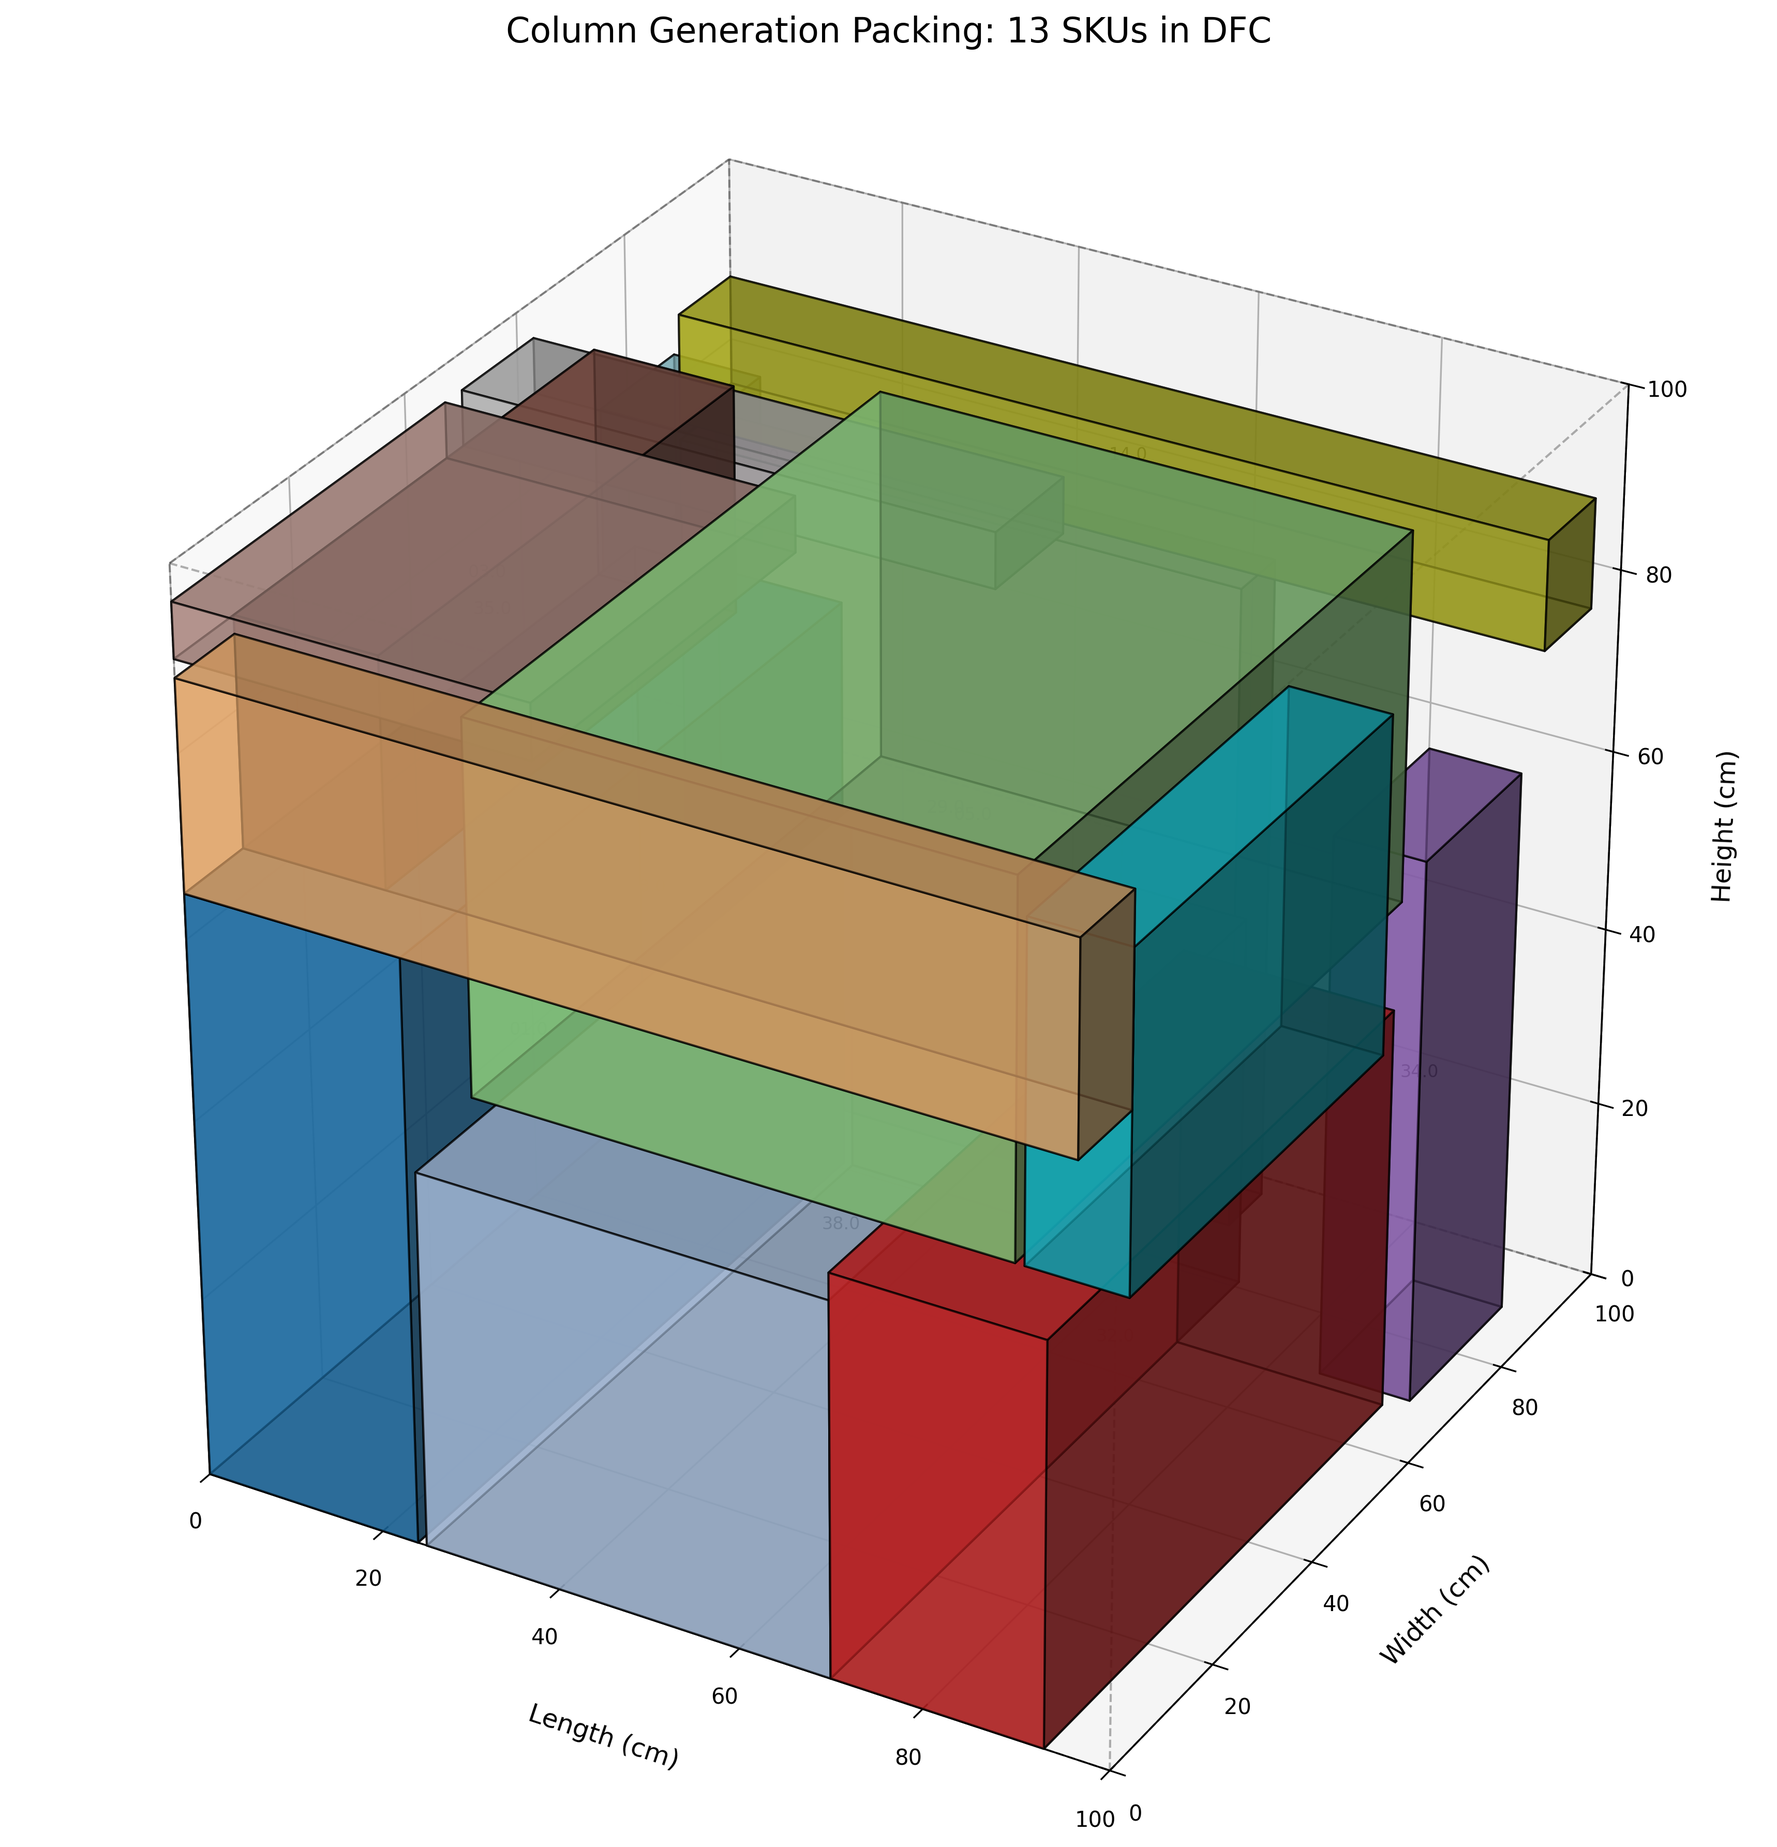
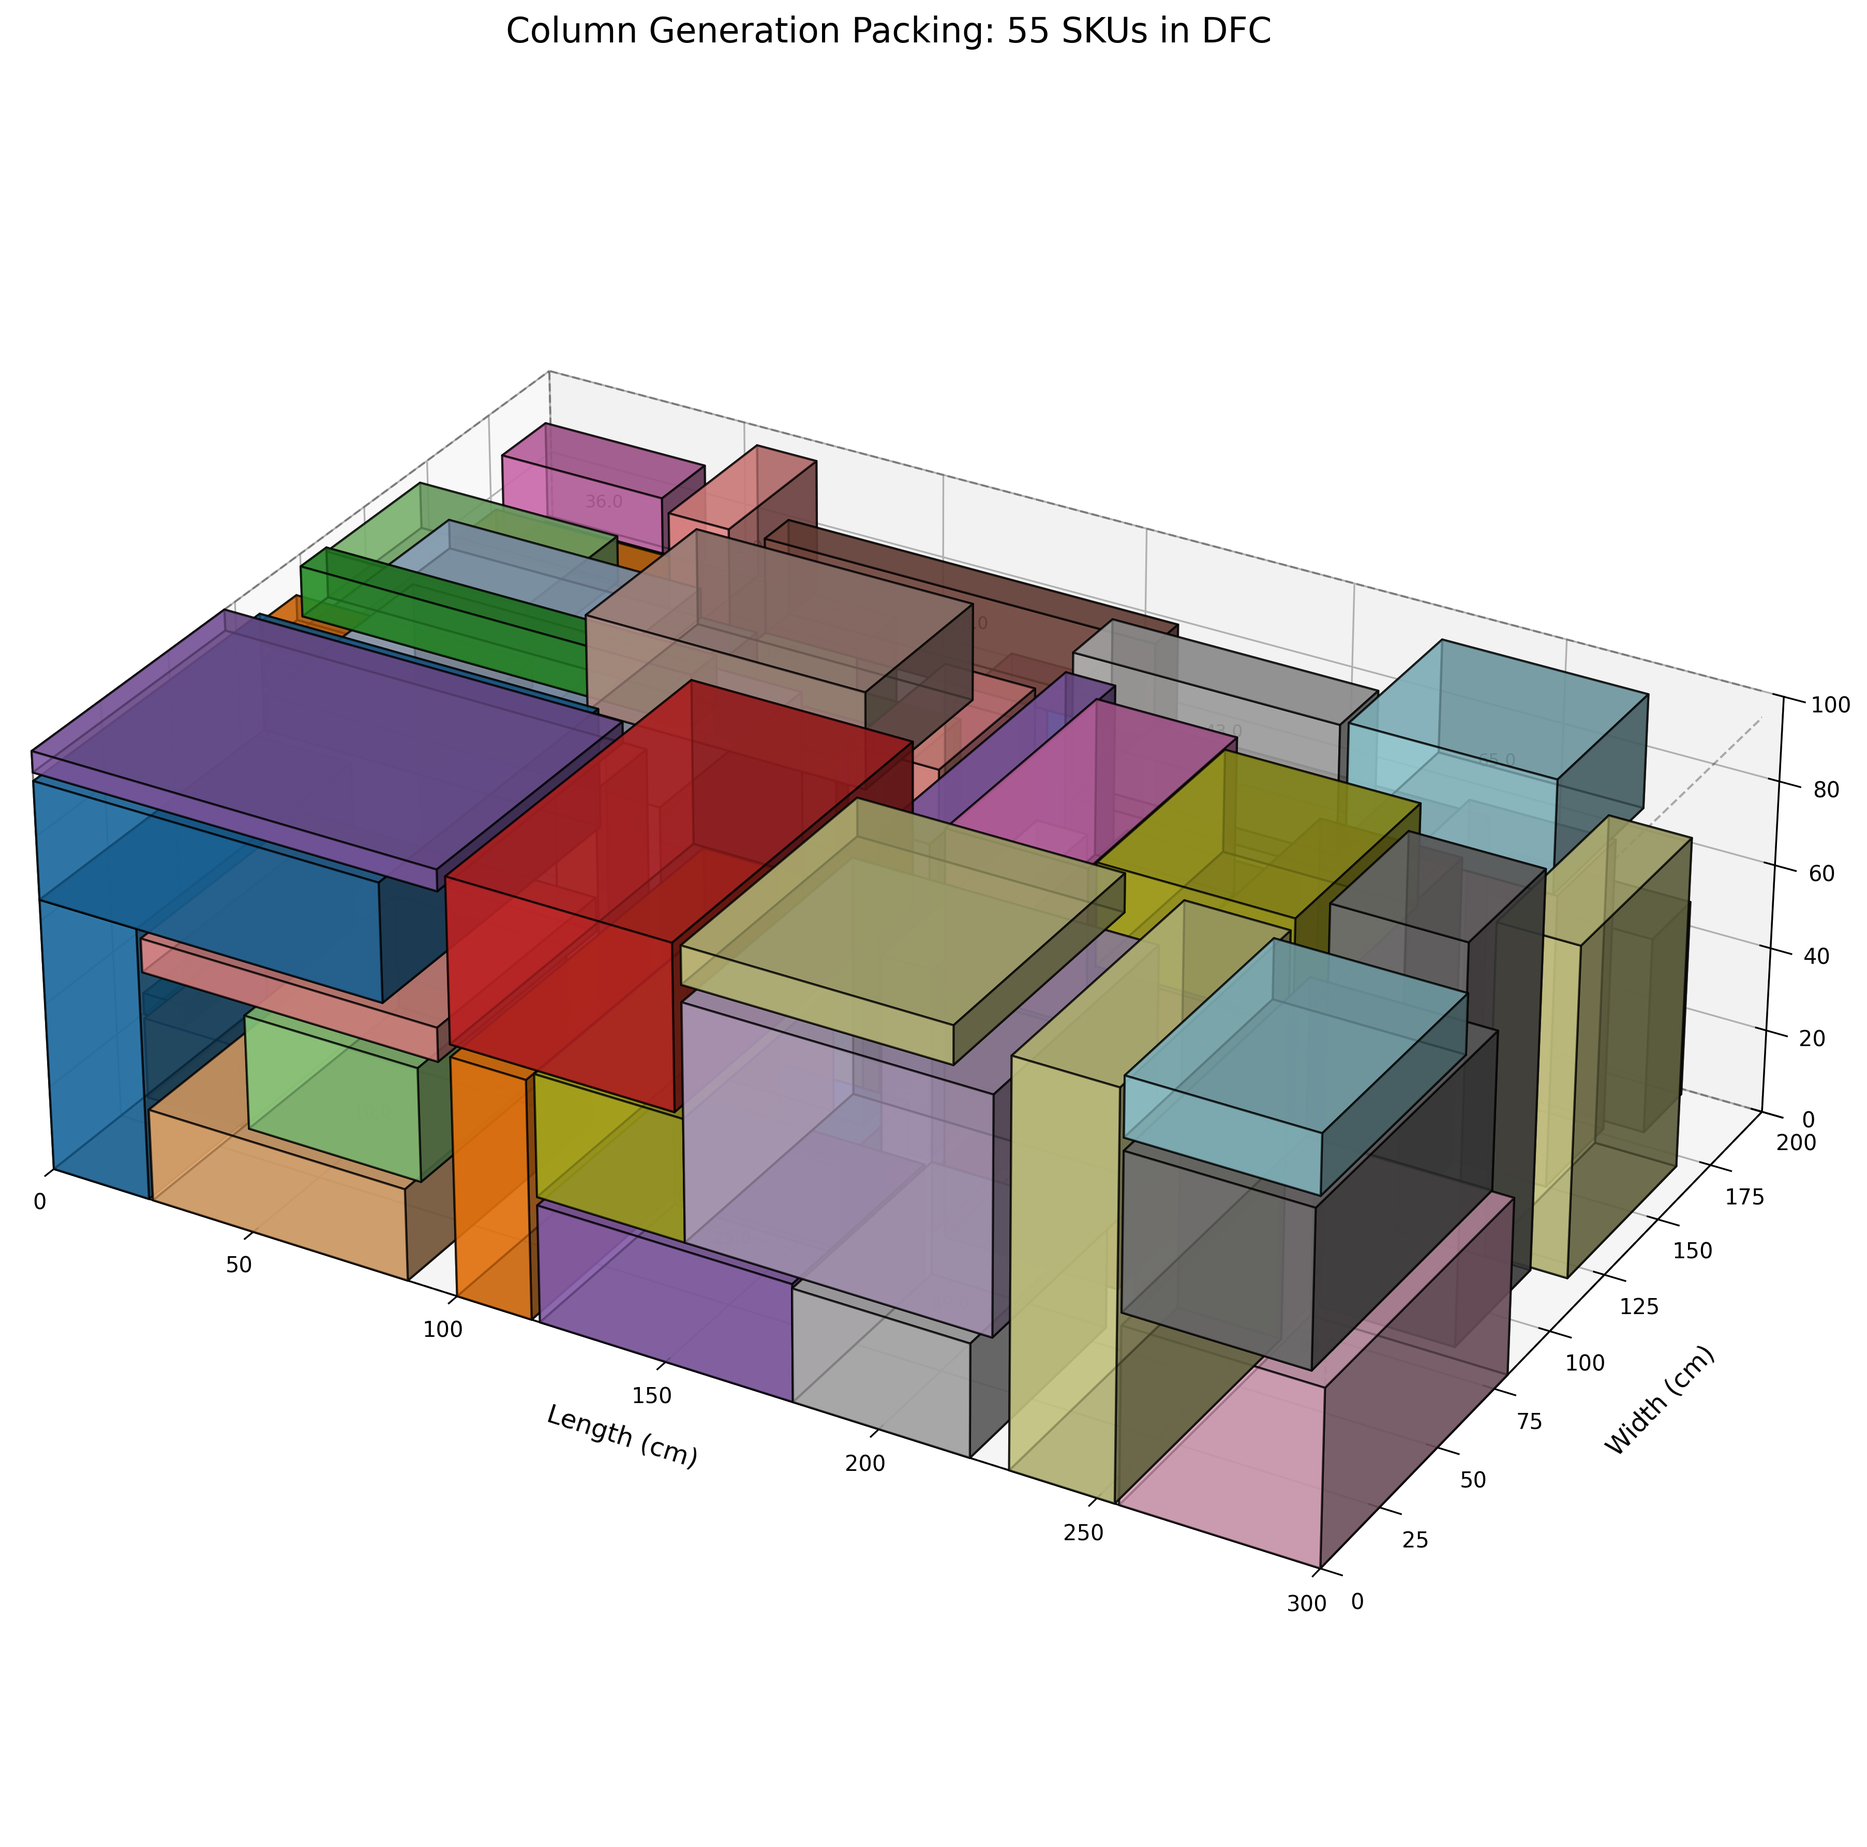
New Changes

diff --git a/RMP.py b/RMP.py
@@ -6,20 +6,23 @@ import os
 import time
 from docplex.mp.model import Model
 
-# DFC dimensions (200x200x200 cm)
-DFC_DIMS = (100, 100, 100)
+# DFC dimensions (100x100x100 cm)
+DFC_DIMS = (300, 200, 100)
 
 class ColumnGenerationPacker:
     def __init__(self, bin_dims):
         self.bin_dims = bin_dims
         self.patterns = []
-        self.sku_data = None
+        self.s极_data = None
         self.dual_values = None
+        self.stability_center = None
+        self.trust_region = 0.5
+        self.convergence_count = 0
         self.rmp_model = None
         self.bin_constraint = None
         self.bin_dual = 0.0
 
-    def load_skus(self, file_path, n_skus=50):
+    def load_skus(self, file_path, n_skus=70):
         """Load SKU data with robust path resolution"""
         paths_to_try = [
             file_path,
@@ -74,6 +77,18 @@ class ColumnGenerationPacker:
             self.rmp_model.sum(self.lambda_vars) <= 1,
             "single_bin"
         )
+        
+        # Dual stabilization constraints
+        if self.stability_center is not None:
+            for idx, dual_val in enumerate(self.stability_center):
+                self.rmp_model.add_constraint(
+                    self.demand_constraints[idx].dual_value >= dual_val - self.trust_region,
+                    f'stab_lb_{idx}'
+                )
+                self.rmp_model.add_constraint(
+                    self.demand_constraints[idx].dual_value <= dual_val + self.trust_region,
+                    f'stab_ub_{idx}'
+                )
 
     def solve_rmp(self):
         if not self.rmp_model:
@@ -81,21 +96,50 @@ class ColumnGenerationPacker:
         solution = self.rmp_model.solve()
         if not solution:
             raise RuntimeError("RMP failed to solve")
-        self.dual_values = [ct.dual_value for ct in self.demand_constraints]
+        
+        new_duals = [ct.dual_value for ct in self.demand_constraints]
+        
+        # Update stability center
+        if self.stability_center is None:
+            self.stability_center = new_duals
+        else:
+            alpha = 0.7  # Smoothing factor
+            self.stability_center = [
+                alpha * new + (1 - alpha) * old
+                for new, old in zip(new_duals, self.stability_center)
+            ]
+        
+        # Adjust trust region
+        if self.convergence_count > 3:
+            self.trust_region *= 0.8
+            self.convergence_count = 0
+            
+        self.dual_values = new_duals
         self.bin_dual = self.bin_constraint.dual_value
         return solution.get_objective_value()
 
-    def solve_psp(self):
-        """Pricing Subproblem with corrected attractiveness"""
-        if self.dual_values is None or len(self.dual_values) != len(self.sku_data):
-            print("Using fallback attractiveness (all 1s)")
-            attractiveness = np.ones(len(self.sku_data))
-        else:
-            attractiveness = 1 - np.array(self.dual_values) - self.bin_dual
-        
-        sorted_skus = self.sku_data.copy()
-        sorted_skus['Attractiveness'] = attractiveness
-        sorted_skus = sorted_skus.sort_values('Attractiveness', ascending=False)
+    def solve_psp(self, num_patterns=3):
+        """Generate multiple patterns per iteration with local search"""
+        patterns = []
+        for _ in range(num_patterns):
+            if self.stability_center is not None:
+                attractiveness = 1 - np.array(self.stability_center)
+            else:
+                attractiveness = np.ones(len(self.sku_data))
+                
+            sorted_skus = self.sku_data.copy()
+            sorted_skus['Attractiveness'] = attractiveness
+            sorted_skus = sorted_skus.sort_values('Attractiveness', ascending=False)
+            
+            pattern, placements = self.greedy_packing(sorted_skus)
+            
+            # Apply local search improvement
+            improved_pattern, _ = self.local_search_improvement(pattern, placements)
+            patterns.append(improved_pattern)
+        return patterns
+
+    def greedy_packing(self, sorted_skus):
+        """Greedy packing with current attractiveness ordering"""
         placements = []
         occupied = np.zeros(tuple(int(x) for x in self.bin_dims), dtype=bool)
         L, W, H = (int(x) for x in self.bin_dims)
@@ -131,7 +175,7 @@ class ColumnGenerationPacker:
                             if not check_overlap(new_box):
                                 placements.append({
                                     'SKU': sku['Material Barcode'],
-                                    'ID': sku['ID'],
+                                    'ID': int(sku['ID']),
                                     **new_box,
                                     'Volume': sku['Volume']
                                 })
@@ -148,37 +192,130 @@ class ColumnGenerationPacker:
                 if placed: break
         return pattern, placements
 
+    def local_search_improvement(self, pattern, placements):
+        """Intensification: Try to add unpacked items to existing pattern"""
+        unpacked_ids = [i for i in range(len(self.sku_data)) if pattern[i] == 0]
+        if not unpacked_ids:
+            return pattern, placements
+
+        # Create occupancy map
+        L, W, H = (int(x) for x in self.bin_dims)
+        occupied = np.zeros((L, W, H), dtype=bool)
+        for box in placements:
+            x, y, z = int(box['x']), int(box['y']), int(box['z'])
+            l, w, h = int(box['Length']), int(box['Width']), int(box['Height'])
+            occupied[x:x+l, y:y+w, z:z+h] = True
+        
+        # Sort unpacked items by volume (largest first)
+        unpacked_skus = self.sku_data.iloc[unpacked_ids].sort_values('Volume', ascending=False)
+        
+        for _, sku in unpacked_skus.iterrows():
+            l, w, h = float(sku['Length']), float(sku['Width']), float(sku['Height'])
+            placed = False
+            
+            # Try all rotations
+            for rotation in [(l, w, h), (l, h, w), (w, l, h),
+                            (w, h, l), (h, l, w), (h, w, l)]:
+                dim_l, dim_w, dim_h = (float(rotation[0]), float(rotation[1]), float(rotation[2]))
+                if dim_l > L or dim_w > W or dim_h > H:
+                    continue
+                
+                # Convert to integers
+                dim_l, dim_w, dim_h = int(dim_l), int(dim_w), int(dim_h)
+                
+                # Strategic positions: corners and edges
+                for x in [0, L - dim_l]:
+                    for y in [0, W - dim_w]:
+                        for z in [0, H - dim_h]:
+                            if not occupied[x:x+dim_l, y:y+dim_w, z:z+dim_h].any():
+                                # Add to pattern with INT conversion
+                                pattern[int(sku['ID'])] = 1
+                                placements.append({
+                                    'SKU': sku['Material Barcode'],
+                                    'ID': int(sku['ID']),
+                                    'x': x, 'y': y, 'z': z,
+                                    'Length': dim_l, 'Width': dim_w, 'Height': dim_h,
+                                    'Volume': sku['Volume']
+                                })
+                                occupied[x:x+dim_l, y:y+dim_w, z:z+dim_h] = True
+                                placed = True
+                                break
+                        if placed: break
+                    if placed: break
+                if placed: break
+        return pattern, placements
+
     def column_generation(self, max_iter=20):
         self.initialize_patterns()
         print(f"Initialized with {len(self.patterns)} patterns")
         print("Starting column generation iterations...")
+        
         best_skus = 0
         best_placements = []
+        prev_obj = -float('inf')
+        total_start_time = time.time()
+        iteration_times = []
+        
         for iter in range(max_iter):
+            iter_start_time = time.time()
             print(f"\n--- Iteration {iter+1}/{max_iter} ---")
             print("Solving RMP...")
             self.build_rmp()
             num_skus = self.solve_rmp()
             print(f"  RMP packed {num_skus:.2f} SKUs")
-            print("Solving PSP...")
-            new_pattern, placements = self.solve_psp()
-            new_skus = np.sum(new_pattern)
-            if self.dual_values is not None:
-                reduced_cost = new_skus - np.dot(new_pattern, self.dual_values) - self.bin_dual
-                print(f"  PSP found pattern with {new_skus} SKUs, reduced cost: {reduced_cost:.4f}")
+            
+            print("Solving PSP (multi-pattern)...")
+            new_patterns = self.solve_psp(num_patterns=3)
+            
+            added = False
+            for pattern in new_patterns:
+                if self.dual_values is not None:
+                    reduced_cost = np.sum(pattern) - np.dot(pattern, self.dual_values) - self.bin_dual
+                    print(f"  PSP pattern with {np.sum(pattern)} SKUs, reduced cost: {reduced_cost:.4f}")
+                    if reduced_cost < -1e-4:
+                        self.patterns.append(pattern)
+                        added = True
+                        print("    Added pattern")
+            
+            # Update best solution
+            for pattern in new_patterns:
+                _, placements = self.greedy_packing(self.sku_data)
+                new_skus = np.sum(pattern)
+                if new_skus > best_skus:
+                    best_skus = new_skus
+                    best_placements = placements
+                    print(f"  New best solution: {best_skus} SKUs")
+            
+            # Convergence check
+            if abs(num_skus - prev_obj) < 1e-4:
+                self.convergence_count += 1
+                if self.convergence_count >= 3:
+                    print("Convergence stabilized. Terminating.")
+                    break
             else:
-                reduced_cost = float('-inf')
-                print(f"  PSP found pattern with {new_skus} SKUs (no dual values)")
-            if new_skus > best_skus:
-                best_skus = new_skus
-                best_placements = placements
-                print(f"  New best solution: {best_skus} SKUs")
-            if reduced_cost <= 1e-4:
-                print("Termination condition met (reduced cost <= 1e-4).")
+                self.convergence_count = 0
+                prev_obj = num_skus
+            
+            # Calculate iteration time
+            iter_elapsed = time.time() - iter_start_time
+            iteration_times.append(iter_elapsed)
+            print(f"  Iteration time: {iter_elapsed:.2f} seconds")
+            
+            # Time-based termination for large instances
+            total_elapsed = time.time() - total_start_time
+            if total_elapsed > 120 and len(self.sku_data) > 100:
+                print(f"Total time limit reached ({total_elapsed:.1f}s). Terminating early.")
                 break
-            self.patterns.append(new_pattern)
-            print(f"  Added new pattern")
+                
+            if not added:
+                print("No improving patterns found. Terminating.")
+                break
+        
+        total_elapsed = time.time() - total_start_time
         print("\nColumn generation completed successfully!")
+        print(f"Total iterations: {len(iteration_times)}")
+        print(f"Total column generation time: {total_elapsed:.2f} seconds")
+        print(f"Average iteration time: {np.mean(iteration_times):.2f} seconds")
         return best_placements, best_skus
 
 def visualize_packing(placements, bin_dims):
@@ -186,7 +323,7 @@ def visualize_packing(placements, bin_dims):
     fig = plt.figure(figsize=(16, 12))
     ax = fig.add_subplot(111, projection='3d')
     L, W, H = bin_dims
-    
+
     # Configure 3D axes
     ax.set_box_aspect([L, W, H])
     ax.set_xlabel('Length (cm)', fontsize=12, labelpad=15)
@@ -195,7 +332,7 @@ def visualize_packing(placements, bin_dims):
     ax.set_xlim([0, L])
     ax.set_ylim([0, W])
     ax.set_zlim([0, H])
-    
+
     # Draw container wireframe
     for edge in [
         [(0,0,0), (L,0,0)], [(0,0,0), (0,W,0)], [(0,0,0), (0,0,H)],
@@ -205,7 +342,7 @@ def visualize_packing(placements, bin_dims):
         [(0,0,H), (L,0,H)], [(0,0,H), (0,W,H)]
     ]:
         ax.plot3D(*zip(*edge), 'k--', alpha=0.3, linewidth=1)
-    
+
     # Draw packed SKUs
     if placements:
         colors = plt.cm.tab20(np.linspace(0, 1, len(placements)))
@@ -216,12 +353,12 @@ def visualize_packing(placements, bin_dims):
             
             # Add SKU label
             label = str(box['SKU'])[-4:]
-            ax.text(box['x'] + box['Length']/2,
-                    box['y'] + box['Width']/2,
+            ax.text(box['x'] + box['Length']/2, 
+                    box['y'] + box['Width']/2, 
                     box['z'] + box['Height']/2,
                     label, color='black', fontsize=8, ha='center')
     
-    ax.set_title(f'Column Generation Packing: {len(placements) if placements else 0} SKUs in DFC',
+    ax.set_title(f'Column Generation Packing: {len(placements) if placements else 0} SKUs in DFC', 
                  fontsize=16, pad=20)
     plt.tight_layout()
     return fig
@@ -260,7 +397,7 @@ def calculate_metrics(placements, bin_dims, total_skus):
 
 if __name__ == "__main__":
     CSV_FILE = "cleaned_picklist_dataset_with_config.csv"
-    NUM_SKUS = 50  # Changed to 50 per your last run
+    NUM_SKUS = 70  # Default to 100 SKUs
     
     try:
         print("=" * 70)
@@ -286,7 +423,7 @@ if __name__ == "__main__":
         print("FINAL PACKING RESULTS")
         print("=" * 70)
         print(f"  Packed SKUs: {num_packed}/{total_skus}")
-        print(f"  Computation time: {elapsed_time:.2f} seconds")
+        print(f"  Total computation time: {elapsed_time:.2f} seconds")
         print("=" * 70)
         
         print("\nGenerating comprehensive metrics...")
@@ -295,12 +432,10 @@ if __name__ == "__main__":
         print("\nCreating visualization...")
         fig = visualize_packing(placements, DFC_DIMS)
         
-        # Save results
         output_img = "column_generation_packing_result.png"
         plt.savefig(output_img, dpi=300, bbox_inches='tight')
         print(f"\nVisualization saved as: {output_img}")
         
-        # Show interactive plot
         plt.show()
         
         print("\n" + "=" * 70)
